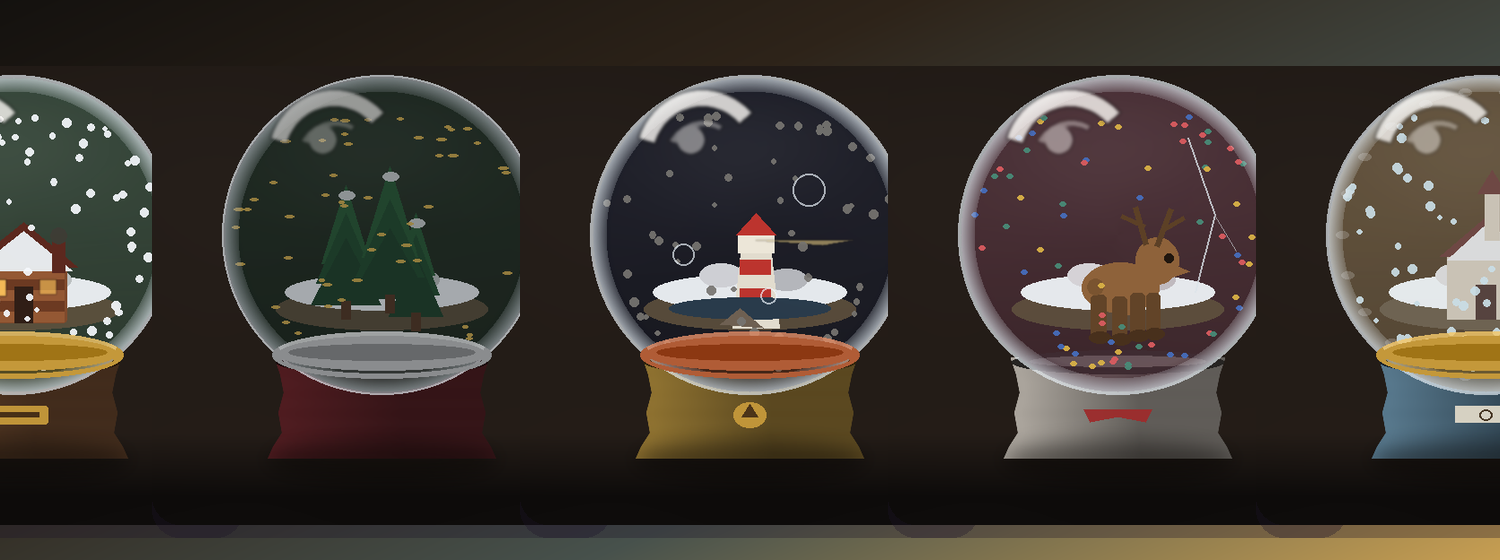
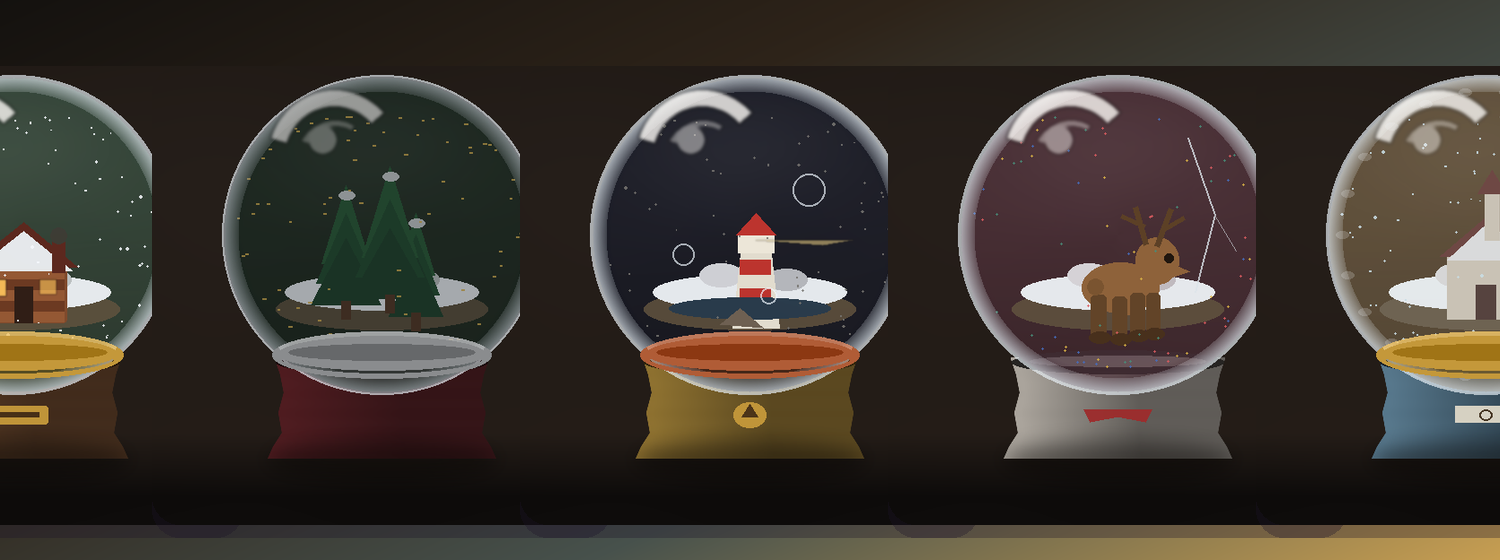
Thin Nivora glitter so the flakes read as snow, not hail.

diff --git a/src/data/nivora-gallery.ts b/src/data/nivora-gallery.ts
@@ -9,7 +9,7 @@ export const nivoraSamples: NivoraSample[] = [
   {
     id: 1,
     name: "Globe #1",
-    image: "/nivora-preview/1.gif?v=3",
+    image: "/nivora-preview/1.gif?v=4",
     attributes: [
       { trait_type: "Plinth", value: "Walnut Plinth" },
       { trait_type: "Bath", value: "Gin Bath" },
@@ -23,7 +23,7 @@ export const nivoraSamples: NivoraSample[] = [
   {
     id: 2,
     name: "Globe #2",
-    image: "/nivora-preview/2.gif?v=3",
+    image: "/nivora-preview/2.gif?v=4",
     attributes: [
       { trait_type: "Plinth", value: "Bakelite Plinth" },
       { trait_type: "Bath", value: "Pine Bath" },
@@ -37,7 +37,7 @@ export const nivoraSamples: NivoraSample[] = [
   {
     id: 3,
     name: "Globe #3",
-    image: "/nivora-preview/3.gif?v=3",
+    image: "/nivora-preview/3.gif?v=4",
     attributes: [
       { trait_type: "Plinth", value: "Brass Plinth" },
       { trait_type: "Bath", value: "Ink Bath" },
@@ -51,7 +51,7 @@ export const nivoraSamples: NivoraSample[] = [
   {
     id: 4,
     name: "Globe #4",
-    image: "/nivora-preview/4.gif?v=3",
+    image: "/nivora-preview/4.gif?v=4",
     attributes: [
       { trait_type: "Plinth", value: "Ceramic Plinth" },
       { trait_type: "Bath", value: "Rose Bath" },
@@ -65,7 +65,7 @@ export const nivoraSamples: NivoraSample[] = [
   {
     id: 5,
     name: "Globe #5",
-    image: "/nivora-preview/5.gif?v=3",
+    image: "/nivora-preview/5.gif?v=4",
     attributes: [
       { trait_type: "Plinth", value: "Ice Plastic" },
       { trait_type: "Bath", value: "Amber Bath" },
@@ -79,7 +79,7 @@ export const nivoraSamples: NivoraSample[] = [
   {
     id: 6,
     name: "Globe #6",
-    image: "/nivora-preview/6.gif?v=3",
+    image: "/nivora-preview/6.gif?v=4",
     attributes: [
       { trait_type: "Plinth", value: "Ebon Plinth" },
       { trait_type: "Bath", value: "Cobalt Bath" },
@@ -93,7 +93,7 @@ export const nivoraSamples: NivoraSample[] = [
   {
     id: 7,
     name: "Globe #7",
-    image: "/nivora-preview/7.gif?v=3",
+    image: "/nivora-preview/7.gif?v=4",
     attributes: [
       { trait_type: "Plinth", value: "Cherry Plinth" },
       { trait_type: "Bath", value: "Gin Bath" },
@@ -107,7 +107,7 @@ export const nivoraSamples: NivoraSample[] = [
   {
     id: 8,
     name: "Globe #8",
-    image: "/nivora-preview/8.gif?v=3",
+    image: "/nivora-preview/8.gif?v=4",
     attributes: [
       { trait_type: "Plinth", value: "Marble Plinth" },
       { trait_type: "Bath", value: "Pine Bath" },
@@ -121,7 +121,7 @@ export const nivoraSamples: NivoraSample[] = [
   {
     id: 9,
     name: "Globe #9",
-    image: "/nivora-preview/9.gif?v=3",
+    image: "/nivora-preview/9.gif?v=4",
     attributes: [
       { trait_type: "Plinth", value: "Walnut Plinth" },
       { trait_type: "Bath", value: "Rose Bath" },
@@ -135,7 +135,7 @@ export const nivoraSamples: NivoraSample[] = [
   {
     id: 10,
     name: "Globe #10",
-    image: "/nivora-preview/10.gif?v=3",
+    image: "/nivora-preview/10.gif?v=4",
     attributes: [
       { trait_type: "Plinth", value: "Bakelite Plinth" },
       { trait_type: "Bath", value: "Amber Bath" },
@@ -149,7 +149,7 @@ export const nivoraSamples: NivoraSample[] = [
   {
     id: 11,
     name: "Globe #11",
-    image: "/nivora-preview/11.gif?v=3",
+    image: "/nivora-preview/11.gif?v=4",
     attributes: [
       { trait_type: "Plinth", value: "Brass Plinth" },
       { trait_type: "Bath", value: "Clear Bath" },
@@ -163,7 +163,7 @@ export const nivoraSamples: NivoraSample[] = [
   {
     id: 12,
     name: "Globe #12",
-    image: "/nivora-preview/12.gif?v=3",
+    image: "/nivora-preview/12.gif?v=4",
     attributes: [
       { trait_type: "Plinth", value: "Ceramic Plinth" },
       { trait_type: "Bath", value: "Cobalt Bath" },
@@ -177,7 +177,7 @@ export const nivoraSamples: NivoraSample[] = [
   {
     id: 13,
     name: "Globe #13",
-    image: "/nivora-preview/13.gif?v=3",
+    image: "/nivora-preview/13.gif?v=4",
     attributes: [
       { trait_type: "Plinth", value: "Ice Plastic" },
       { trait_type: "Bath", value: "Ink Bath" },
@@ -191,7 +191,7 @@ export const nivoraSamples: NivoraSample[] = [
   {
     id: 14,
     name: "Globe #14",
-    image: "/nivora-preview/14.gif?v=3",
+    image: "/nivora-preview/14.gif?v=4",
     attributes: [
       { trait_type: "Plinth", value: "Ebon Plinth" },
       { trait_type: "Bath", value: "Gin Bath" },
@@ -205,7 +205,7 @@ export const nivoraSamples: NivoraSample[] = [
   {
     id: 15,
     name: "Globe #15",
-    image: "/nivora-preview/15.gif?v=3",
+    image: "/nivora-preview/15.gif?v=4",
     attributes: [
       { trait_type: "Plinth", value: "Cherry Plinth" },
       { trait_type: "Bath", value: "Pine Bath" },
@@ -219,7 +219,7 @@ export const nivoraSamples: NivoraSample[] = [
   {
     id: 16,
     name: "Globe #16",
-    image: "/nivora-preview/16.gif?v=3",
+    image: "/nivora-preview/16.gif?v=4",
     attributes: [
       { trait_type: "Plinth", value: "Marble Plinth" },
       { trait_type: "Bath", value: "Clear Bath" },

diff --git a/src/app/nivora/gallery/page.tsx b/src/app/nivora/gallery/page.tsx
@@ -55,7 +55,7 @@ export default function NivoraGalleryPage() {
         {extraPreviews.map((id) => (
           <article key={id} className="overflow-hidden rounded-2xl border bg-card">
             <ApngImage
-              src={`/nivora-preview/${id}.gif?v=3`}
+              src={`/nivora-preview/${id}.gif?v=4`}
               alt={`Globe #${id}`}
               width={512}
               height={512}

diff --git a/src/data/nivora-traits.ts b/src/data/nivora-traits.ts
@@ -14,7 +14,7 @@ export type NivoraTraitCategory = {
 };
 
 /** Bump when APNG layers change so the studio does not keep a stale loop. */
-export const NIVORA_ART_VERSION = "nivora-v3";
+export const NIVORA_ART_VERSION = "nivora-v4";
 
 export const NIVORA_FRAMES = 12;
 export const NIVORA_DURATION_MS = 90;

diff --git a/scripts/build_nivora.py b/scripts/build_nivora.py
@@ -364,10 +364,10 @@ def paint_flurry(kind: str, frame: int) -> Image.Image:
     color = FLURRY_COLOR[kind]
     t = clock(frame)
     rng = np.random.RandomState({"snow": 4101, "gold": 4102, "ash": 4103, "confetti": 4104, "mica": 4105, "grit": 4106}[kind])
-    n = 96 if kind in {"snow", "mica"} else 68
+    n = 108 if kind in {"snow", "mica"} else 80
     az = rng.rand(n) * math.pi * 2
     phase = rng.rand(n)
-    sizes = rng.randint(5, 10, n)
+    sizes = rng.choice([1, 1, 1, 2, 2, 2, 3], size=n)
     inner = RADIUS - 12
     for i in range(n):
         fall = (phase[i] + frame / FRAMES + 0.04 * math.sin(t + i * 0.4)) % 1.0
@@ -377,16 +377,20 @@ def paint_flurry(kind: str, frame: int) -> Image.Image:
         y = CY - math.cos(phi) * inner * 0.92
         if (x - CX) ** 2 + (y - CY) ** 2 > (RADIUS - 8) ** 2:
             continue
-        s = int(sizes[i])
+        s = float(sizes[i])
+        r = 0.45 * s
         if kind == "gold":
-            d.ellipse((int(x - s * 0.6), int(y), int(x + s * 0.6), int(y) + 3), fill=(*color, 235))
+            d.ellipse((int(x - r - 0.4), int(y), int(x + r + 0.8), int(y) + 1), fill=(*color, 220))
         elif kind == "confetti":
             hue = [(220, 92, 96), (72, 140, 120), (70, 110, 190), (220, 180, 70)][i % 4]
-            d.ellipse((int(x - 3), int(y - 2), int(x + 4), int(y) + 3), fill=(*hue, 235))
+            d.ellipse((int(x - 1), int(y - 1), int(x + 1), int(y + 1)), fill=(*hue, 220))
         elif kind == "grit":
-            d.polygon([(int(x), int(y)), (int(x) + 5, int(y) + 2), (int(x) - 2, int(y) + 5)], fill=(*color, 220))
+            d.polygon([(int(x), int(y)), (int(x) + 2, int(y) + 1), (int(x), int(y) + 2)], fill=(*color, 210))
         else:
-            d.ellipse((int(x - s * 0.55), int(y - s * 0.55), int(x + s * 0.55), int(y + s * 0.55)), fill=(*color, 235))
+            d.ellipse(
+                (int(round(x - r)), int(round(y - r)), int(round(x + r)), int(round(y + r))),
+                fill=(*color, 220),
+            )
     return clip_sphere(layer, RADIUS - 3)
 
 
@@ -736,7 +740,7 @@ def write_ts_gallery(samples: list[dict]) -> None:
             "  {\n"
             f"    id: {sample['id']},\n"
             f'    name: "{sample["name"]}",\n'
-            f'    image: "{sample["image"]}?v=3",\n'
+            f'    image: "{sample["image"]}?v=4",\n'
             f"    attributes: [\n      {attrs},\n    ],\n"
             "  }"
         )
@@ -808,7 +812,7 @@ def write_ts_traits() -> None:
         "  traits: NivoraTrait[];\n"
         "};\n\n"
         "/** Bump when APNG layers change so the studio does not keep a stale loop. */\n"
-        'export const NIVORA_ART_VERSION = "nivora-v3";\n\n'
+        'export const NIVORA_ART_VERSION = "nivora-v4";\n\n'
         "export const NIVORA_FRAMES = 12;\n"
         "export const NIVORA_DURATION_MS = 90;\n\n"
         "export function nivoraTraitSrc(path?: string) {\n"
